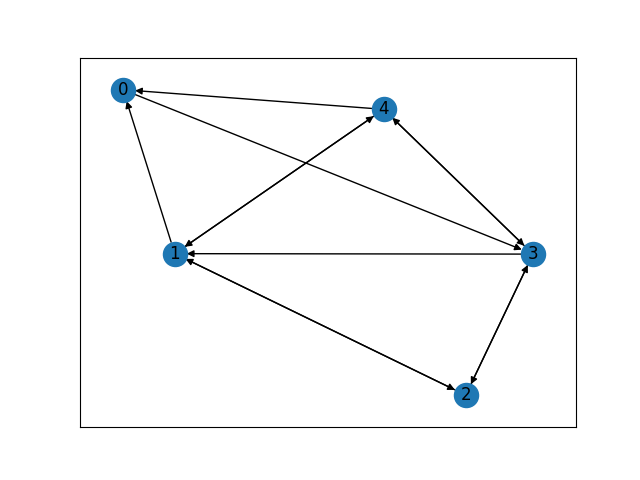
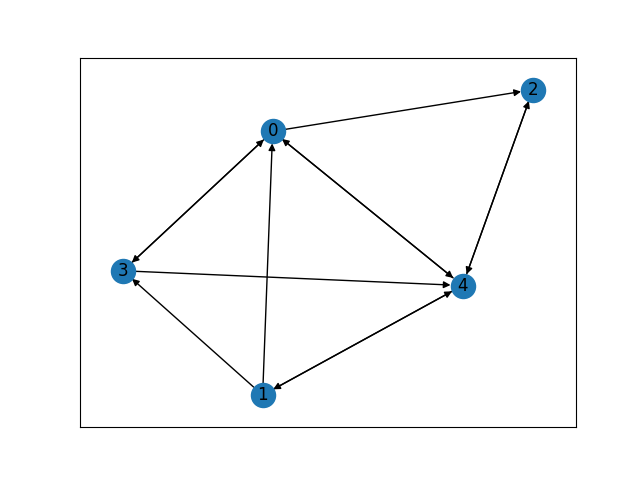
Added random walk

diff --git a/pagerank.py b/pagerank.py
@@ -45,15 +45,48 @@ def pageRank(graph, d, max_iter, epsilon):
     print(f'Number of iterations to converge: {num_iterations}')
     return page_rank
 
+def random_walk(graph, max_iter):
+    # initialize the visited values to 0 for each node
+    visited = []
+    for _ in range(graph[0].size):
+        visited.append(0)
+
+    current_node = 0
+    for _ in range(max_iter):
+        row = graph[current_node]
+        choice = np.random.random()
+        
+        # if choice is less than 0.15 (which is the probability it will jump to a random node), jump to a random node
+        if choice < 0.15:
+            current_node = np.random.choice(graph[0].size)
+        else:
+            # construct possible options
+            connected_nodes = []
+            for i, edge in enumerate(row):
+                if edge == 1:
+                    connected_nodes.append(i)
+            # special case if there's no outgoing edges
+            if len(connected_nodes) == 0:
+                connected_nodes.append(current_node)
+
+            # jump to next node
+            current_node = np.random.choice(connected_nodes)
+        
+        visited[current_node] += 1
+    
+    # normalize visited
+    visited = np.divide(visited, max_iter)
+    return visited
+
 
 def main():
     # Create random graph, get adjacency matrix from it
-    graph = nx.random_graphs.fast_gnp_random_graph(100, 0.75, directed=True)
+    graph = nx.random_graphs.fast_gnp_random_graph(5, 0.5, directed=True)
     adj_matrix = nx.adjacency_matrix(graph).todense()
     adj_matrix = adj_matrix.astype(np.float64)
 
-    # nx.draw_networkx(graph, with_labels=True)#, labels={0: 1, 1: 2, 2: 3, 3: 4, 4: 80})
-    # plt.savefig('graph.png')
+    nx.draw_networkx(graph, with_labels=True)#, labels={0: 1, 1: 2, 2: 3, 3: 4, 4: 80})
+    plt.savefig('graph.png')
 
     # Calculate and print networkx implementation of pagerank
     page_rank = nx.pagerank(graph)
@@ -66,6 +99,13 @@ def main():
     print('\nOur Page Rank Values')
     page_rank = pageRank(adj_matrix, 0.85, 10000, 0.000001)
     for val in page_rank:
+        print(round(val, 4), end=' ')
+    print()
+
+    # Create a random walk with max_iter iterations to see how close it is to PageRank
+    print('\nRandom Walk Values')
+    random_walk_vals = random_walk(adj_matrix, 10000)
+    for val in random_walk_vals:
         print(round(val, 4), end=' ')
     print()
 
